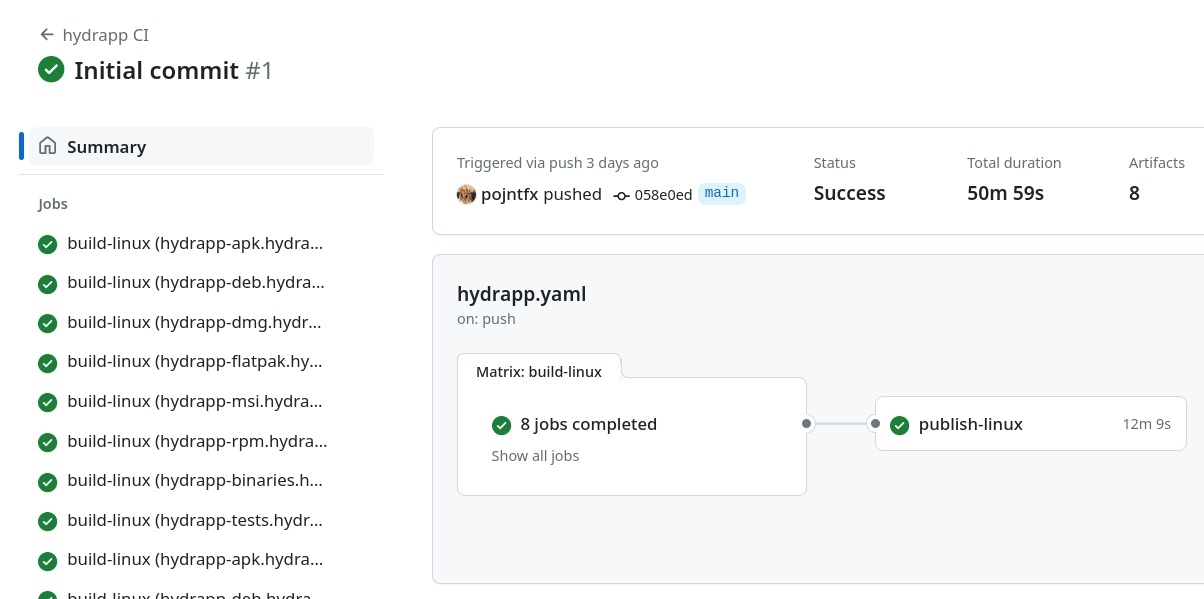
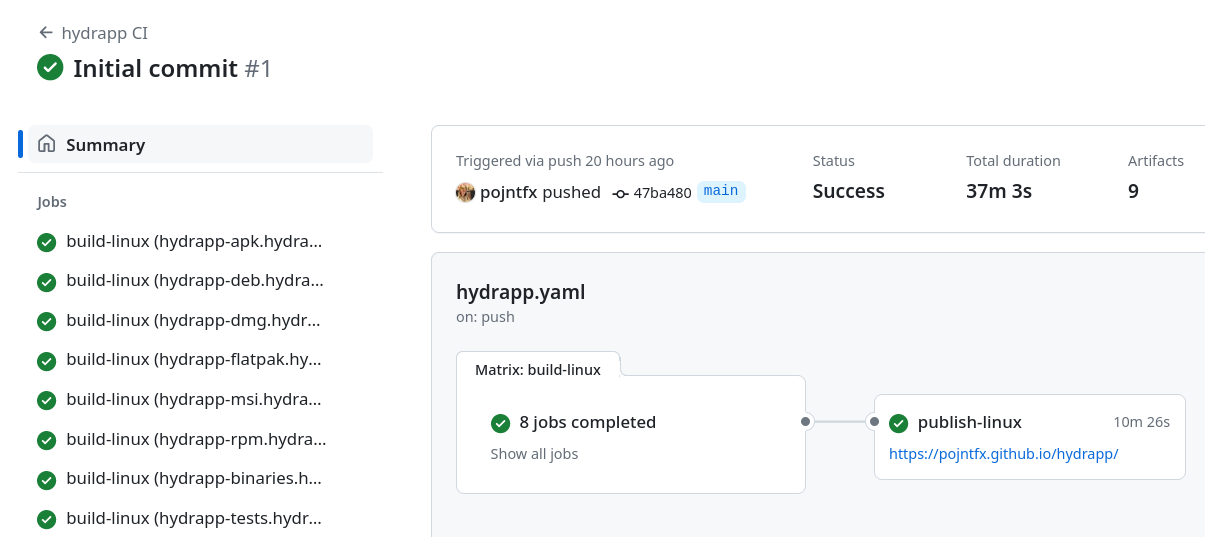
docs: Add FAQ sections for disabling builds and including native dependencies, update screenshots for the actions pipeline

diff --git a/README.md b/README.md
@@ -21,7 +21,7 @@ It enables you too ...
 
 - **Build apps in Go and JS:** Use the speedy and easy-to-learn Go language to create your app's backend, then use your web tech know-how to develop a top-notch, user-friendly frontend.
 - **Connect frontend and backend with ease:** With hydrapp and [panrpc](https://github.com/pojntfx/panrpc), you can easily call functions between the frontend and backend without any complicated manual setup.
-- **Compatible with all browsers:** Hydrapp works with any pre-installed browser by starting it in PWA mode, so you can render your app on Chrome, Firefox/Gecko, Epiphany/Webkit, and even Android WebView.
+- **Compatible with all browsers:** Hydrapp works with any pre-installed browser by starting it in PWA mode, so you can render your app on Chrome, Edge, Brave, Firefox/Gecko, Epiphany/Webkit, and even Android WebView.
 - **Cross-compile easily with full CGo support:** Hydrapp simplifies cross-compilation with a container-based environment that includes MacPorts, MSYS2 on WINE, APT, and DNF, making it easy to distribute binaries without using non-Linux machines.
 - **Effortlessly build, sign, distribute, and update your app:** Hydrapp streamlines your app's delivery with an integrated CI/CD workflow, producing reproducible packages for DEB, RPM, Flatpak, MSI, EXE, DMG, APK, and static binaries for all other platforms. Hydrapp can also generate APT, YUM, and Flatpak repositories for Linux and F-Droid repositories for Android. Self-updating for Windows, macOS, and other platforms is also available.
 
@@ -270,7 +270,7 @@ After pushing the app to the repository, the GitHub action should automatically 
   <img src="./docs/screenshot-show-actions-pipeline.png" width="650px" alt="Screenshot of the GitHub actions pipeline" title="Screenshot of the GitHub actions pipeline">
 </p>
 
-After the action has run, the generated assets and installation instructions will be published to GitHub pages. You can find the link to them in the generated `README.md`; they should look something like this:
+After the action has run, the generated packages and installation instructions will be published to GitHub pages. You can find the link to them in the generated `README.md` or by heading to the URL reported by the `publish-linux` action; they should look something like this:
 
 ![Screenshot of the generated installation instructions](./docs/screenshot-generated-installation-instructions.png)
 
@@ -421,6 +421,51 @@ Global Flags:
 ### Environment Variables
 
 All command line arguments described above can also be set using environment variables; for example, to set `--eject` to `true` with an environment variable, use `HYDRAPP_EJECT=true`.
+
+## FAQ
+
+### How do I disable builds for a specific platform like Windows or Debian?
+
+To disable builds for a specific platform, simply delete their definition from the `hydrapp.yaml` file and remove the matching target from `.github/workflows/hydrapp.yaml`, after which they will neither be built by GitHub actions nor included in the generated installation instructions; also see [4. Packaging The App](#4-packaging-the-app) if you want to skip these builds locally.
+
+### How do I include native dependencies, install additional build-time packages or use CGo?
+
+The container-based system package build system allows you to cross-compile with CGo support for DEB, RPM, Flatpak, MSI, DMG and APK packages by default, and it also allows the declarative installation of build dependencies through MacPorts/MSYS2/APT/DNF etc. (like `sqlite`, `libpcap` etc.) by adding them to `hydrapp.yaml`. For example, to add `libpcap` to the build dependencies, the configuration might look like so:
+
+```yaml
+deb:
+- path: deb/debian/sid/x86_64
+  os: debian
+  distro: sid
+  mirrorsite: http://http.us.debian.org/debian
+  components:
+  - main
+  - contrib
+  debootstrapopts: ""
+  architecture: amd64
+    - name: libpcap-dev
+      version: "1.10.1"
+dmg:
+  path: dmg
+  packages:
+    - libpcap
+msi:
+- path: msi/x86_64
+  architecture: amd64
+  include: ^\\b$
+  packages:
+    - libpcap
+rpm:
+- path: rpm/fedora/39/x86_64
+  trailer: 1.fc39
+  distro: fedora-39
+  architecture: amd64
+  packages:
+    - name: libpcap-devel
+      version: "1.10.1"
+```
+
+Note that while the DEB and RPM builds automatically include these packages as dependencies, for DMG and MSI builds, you must still ensure that the necessary runtime libraries are installed on your users' systems unless you manually set up static linking.
 
 ## Acknowledgements
 
